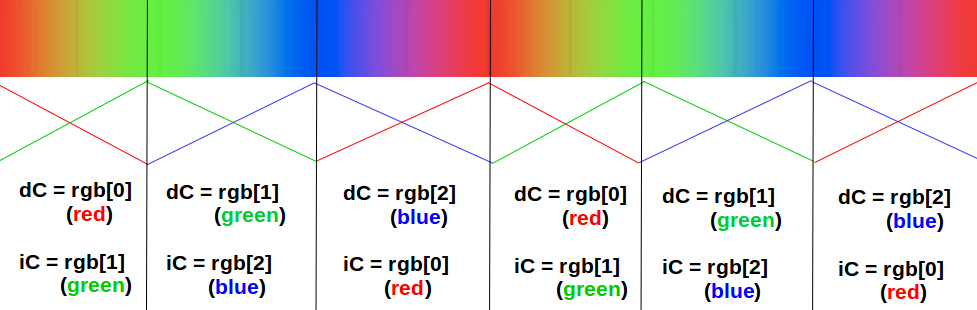
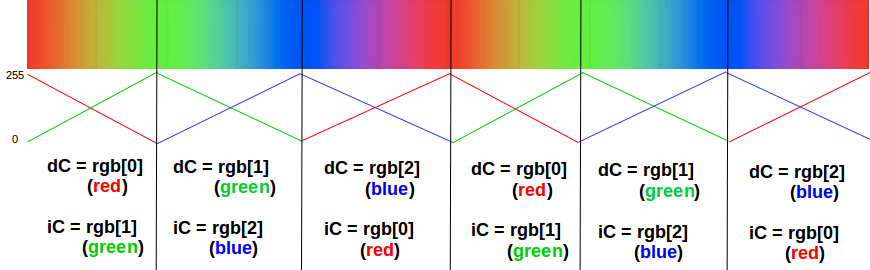
Update README.md

diff --git a/README.md b/README.md
@@ -1,4 +1,129 @@
 # rainbow-pixels
-*Cycle a WS2812B RGB LED through the visible color spectrum*
+#### Cycle a WS2812B RGB LED through the visible color spectrum
+
+This example program demonstrates the use of a couple of ```for``` loops to cycle a [WS2812B](https://www.adafruit.com/product/1655) Red/Green/Blue Light Emitting Diode (LED) through the visible color spectrum (that is, ROYGBIV).  We're using the [Adafruit NeoPixel Library](https://github.com/adafruit/Adafruit_NeoPixel) to interact with the WS2812B.
+
+### How Color is Set
+The color of the LED is set by calling the ```setPixelColor()``` method, and supplying it with four values:
+
+1. the LED number (starting from 0)
+2. red value (0-255)
+3. green value (0-255)
+4. blue value (0-255)
+
+Just like with paint, we can control how much red, green, and blue we put into our mixture, and can adjust them accordingly to make any color we want.  For example, to make solid red, our "RGB" values would be ```255, 0, 0``` (full red, no green, no blue).  To make purple (a mixture of red and blue), we could use ```255, 0, 255``` (full red, no green, full blue).
+
+### Traversing the Rainbow!
+
+To smoothly transition along the visible color spectrum, we have to understand the pattern that our RGB ratios must follow in order to transition along the color spectrum: ```red -> orange -> yellow -> green -> blue -> indigo -> violet```.  Take a look at the graphic below:
 
 ![Visual Reference](https://github.com/insdavm/rainbow-pixels/raw/master/Guide.png)
+
+On top, we have the rainbow, from red to violet, repeated twice.  Below, we have colored lines indicating where each color (red, green, or blue) should be on the 0-255 scale.  For example, look at the green area on the rainbow.  Just below it, you'll see the red line has descended into the ```0``` value, and the green has steadily climbed from ```0``` (when the color was all red), up to ```255```, giving us a full green color.   Next we move from green to blue, which means the green descends from ```255``` to ```0``` all while the blue color ascends from ```0``` to ```255```.  **_At any given time, only two colors are moving, while the 3<sup>rd</sup> color is at 0_**
+
+#### Only Two Colors Are Moving At Any Given Time
+
+And we'll give those two colors names:
+
+* Decrementing Color (or ```dC```)
+* Incrementing Color (or ```iC```)
+
+These colors are just what they seem.  ```dC``` is decrementing, meaning it starts at ```255``` and ends at ```0```.  Conversely, the incrementing color, ```iC```, steadily increments from ```0``` to ```255```.  And the 3<sup>rd</sup> color?  It's at 0 during this time because, remember, only 2 colors are "moving" at any given time (refer back to the lines on the graphic if you're confused).
+
+#### Which Colors Decrement and Increment?
+
+Our loop makes three rotations to cycle through the entire color spectrum.
+
+###### Loop One
+
+dC | iC | Off-Color
+---|---|---
+Red | Green | Blue
+
+###### Loop Two
+
+dC | iC | Off-Color
+---|---|---
+Green | Blue | Red
+
+###### Loop Three
+
+dC | iC | Off-Color
+---|---|---
+Blue | Red | Green
+
+**Do you see the pattern?**
+
+### How It Looks In Code
+
+The code stores the RGB color values in an array called ```rgb```.
+
+* ```rgb[0]``` = red
+* ```rgb[1]``` = green
+* ```rgb[2]``` = blue
+
+To make the color **blue**, we would need to set the values like so:
+
+```c
+rgb[0] = 0;
+rgb[1] = 0;
+rgb[2] = 255;
+```
+
+To make one color increment and another decrement along the 0-255 scale range at the same time, we can use a ```for``` loop that runs 255 times.  At the start of the loop, we will set the decrementing color (```dC```) to ```255```, and decrease it by 1 after each execution of the loop.  Conversely, we'll start the incrementing color (```iC```) at ```0``` and add 1 to it every time the loop executes.
+
+Loop Cycle | dC Value | iC Value
+---|---|---
+0 | 255 | 0
+1 | 254 | 1
+2 | 253 | 2
+... | ... | ...
+253 | 2 | 253
+254 | 1 | 254
+255 | 0 | 255
+
+After we set the dC and iC to the appropriate values for the loop cycle that we're on, we need to tell the LED what color to be.  We'll do that with ```setPixelColor()``` and ```show()```.  We also need to include a small delay at the end of each loop cycle.  If we ran this loop as fast as the computer could execute it, it'd be a really quick transition through the rainbow.  We'll add a 30 millisecond delay after each loop cycle with ```delay(30)``` to slow it down.  You can make this number bigger to slow the loop down even more!
+
+Now that we know how to take two colors and mix them to blend from one major color on the spectrum to another, we have to figure out how to decide which two colors to mix!
+
+#### Choosing What Colors dC and iC Are and Nesting the Loops
+
+The loop above runs 255 times, one time for each value that a color can be (from 0-255).  That loop will run inside of another loop, which runs 3 times (one time for each color combination (**_ref_** *Which Colors Increment and Decrement?* above).  And these two loops run inside even another loop which infinitely repeats while the program is running!  Put it all together, and our nested loops look like this:
+
+```c
+/* this loop runs infinitely */
+mainLoop() 
+{
+
+	/* this loop runs three times */
+	threeLoops()
+	{
+	
+		/*
+	   	 * Each time this loop executes, we increase dC by 1 and make iC equal
+		 * dC plus one.  If, however, dC equals 2 (blue), then we wrap around
+		 * and make iC equal to 0 (red).
+		 */
+		 
+		
+		/* this loops runs 255 times */
+		twoHundredAndFiftyFiveLoops()
+		{
+			
+			/*
+			 * Each time this loop executes, we increase iC by 1 and decrease dC by 1,
+			 * then we set the color of the LED to this new color
+			 */
+	
+		}
+	
+	}
+
+}
+```
+
+### Do It
+
+Now look at each line of the code and figure out how it works! 
+
+
